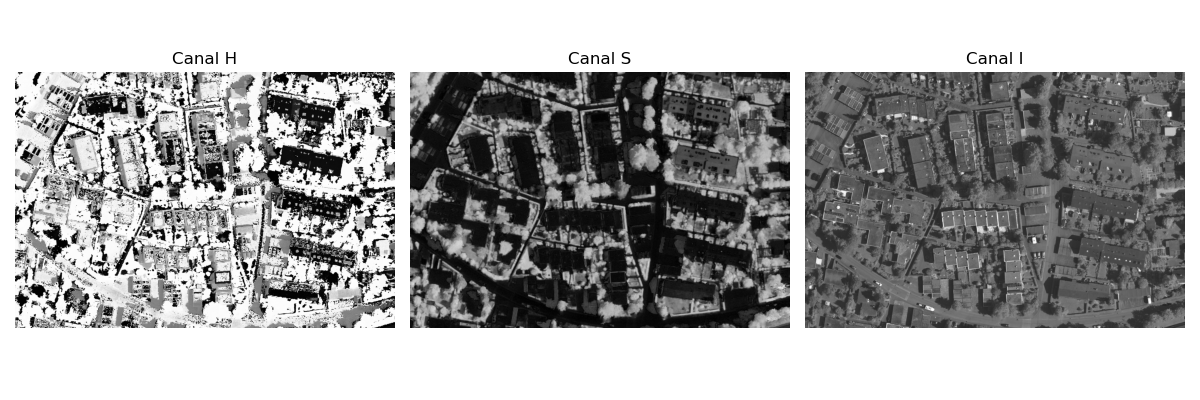
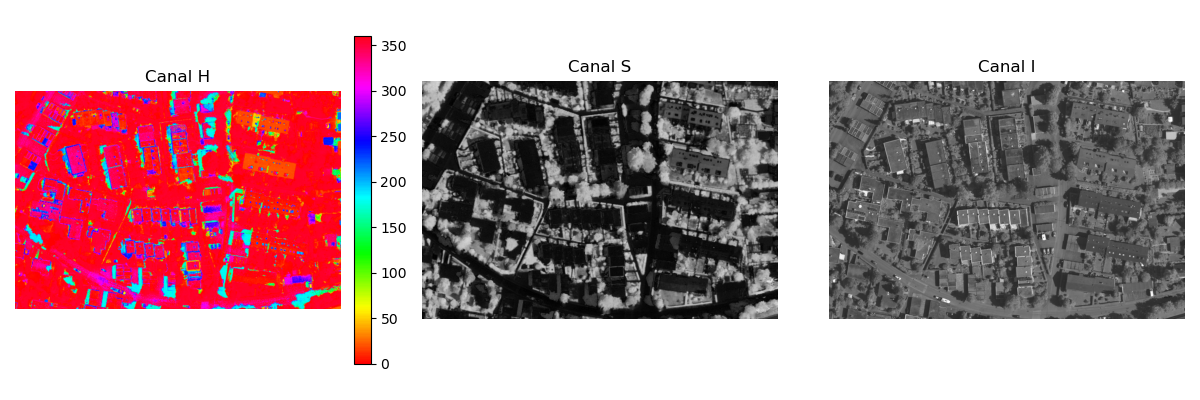
plots_CMY_YUV

diff --git a/d4area35_transformarHSI.py b/d4area35_transformarHSI.py
@@ -92,10 +92,11 @@ I_lido = cv2.imread(caminho_I, cv2.IMREAD_GRAYSCALE)  # lê I salvo
 
 plt.figure(figsize=(12, 4))  # figura
 
-plt.subplot(1, 3, 1)  # H
-plt.imshow(H_lido, cmap="gray")  # mostra H salvo
+plt.subplot(1, 3, 1)  # H (colorido)
+plt.imshow(H, cmap="hsv", vmin=0.0, vmax=360.0)  # mapeia 0..360 no círculo HSV
 plt.title("Canal H")  # título
 plt.axis("off")  # sem eixo
+plt.colorbar(fraction=0.046, pad=0.04)  # barra de cores 
 
 plt.subplot(1, 3, 2)  # S
 plt.imshow(S_lido, cmap="gray")  # mostra S salvo

diff --git a/d4lena_transformarHSI.py b/d4lena_transformarHSI.py
@@ -143,10 +143,11 @@ if __name__ == "__main__":
     # Plotar lado a lado
     plt.figure(figsize=(12,5))
 
-    plt.subplot(1,3,1)
-    plt.imshow(H, cmap='gray')
-    plt.title("Canal H")
-    plt.axis("off")
+    plt.subplot(1, 3, 1)  # H (colorido)
+    plt.imshow(H, cmap="hsv", vmin=0.0, vmax=360.0)  # mapeia 0..360 no círculo HSV
+    plt.title("Canal H")  # título
+    plt.axis("off")  # sem eixo
+    plt.colorbar(fraction=0.046, pad=0.04)  # barra de cores
 
     plt.subplot(1,3,2)
     plt.imshow(S, cmap='gray')

diff --git a/d5lena_transformarYUV.py b/d5lena_transformarYUV.py
@@ -51,7 +51,7 @@ cv2.imwrite(os.path.join(pasta_saida, "imagem_YUV.png"), imagem_yuv)
 print("d.5 concluído: canais Y, U, V e imagem_YUV.png (3 canais) salvos em 'canaisYUV_lena'.")
 
 # 8) Plotar os canais (visualmente úteis)
-plt.figure(figsize=(12, 4))
+plt.figure(figsize=(12, 5))
 
 plt.subplot(1, 3, 1)
 plt.imshow(Y_8bit, cmap="gray")

diff --git a/d2lena_separar_em_CMY.py b/d2lena_separar_em_CMY.py
@@ -36,7 +36,7 @@ m = 255 - g
 y = 255 - b
 
 # 7) Plotar canais CMY
-plt.figure(figsize=(12, 4))
+plt.figure(figsize=(12, 5))
 
 plt.subplot(1, 3, 1)
 plt.imshow(c, cmap="gray")
